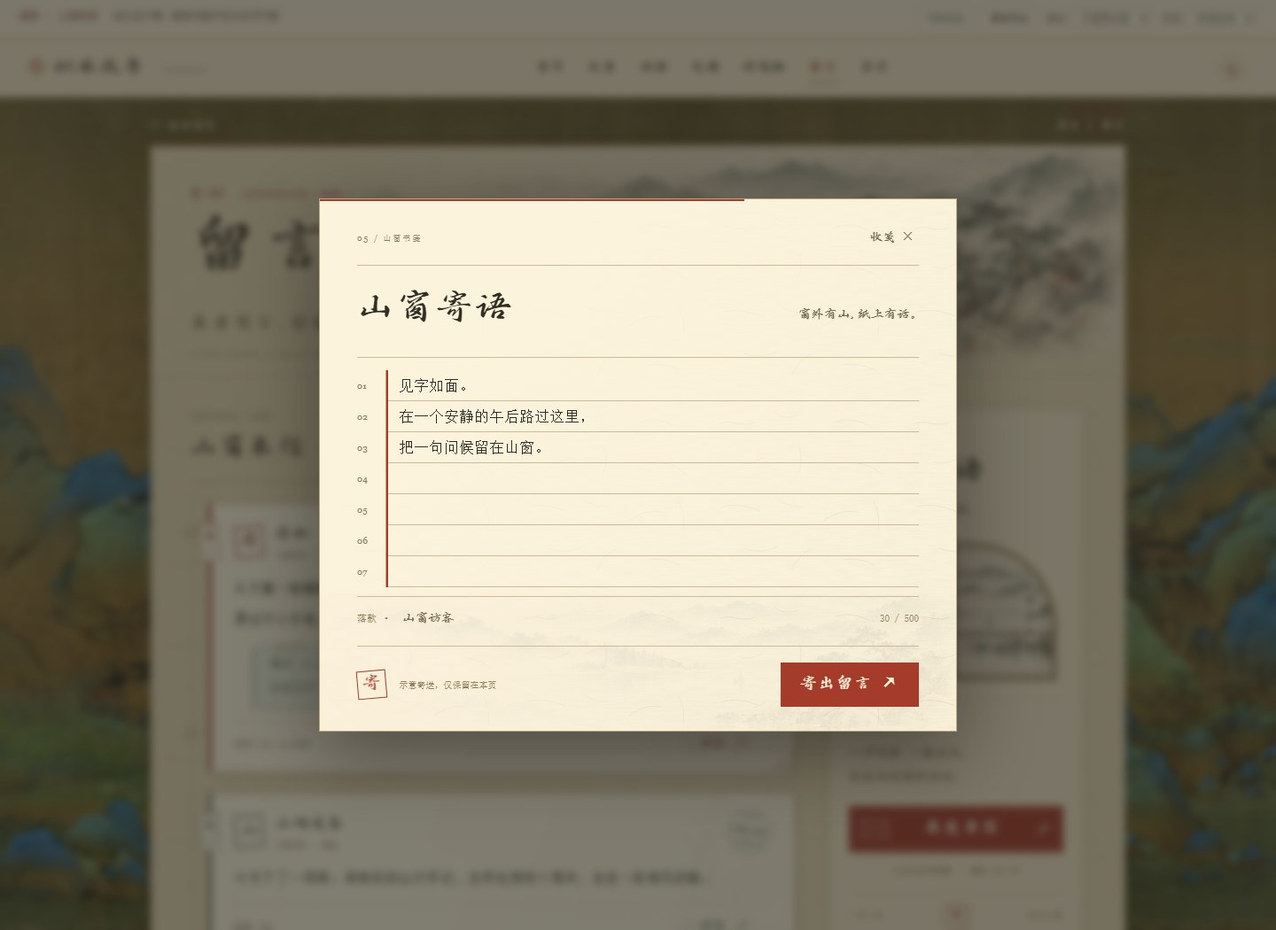
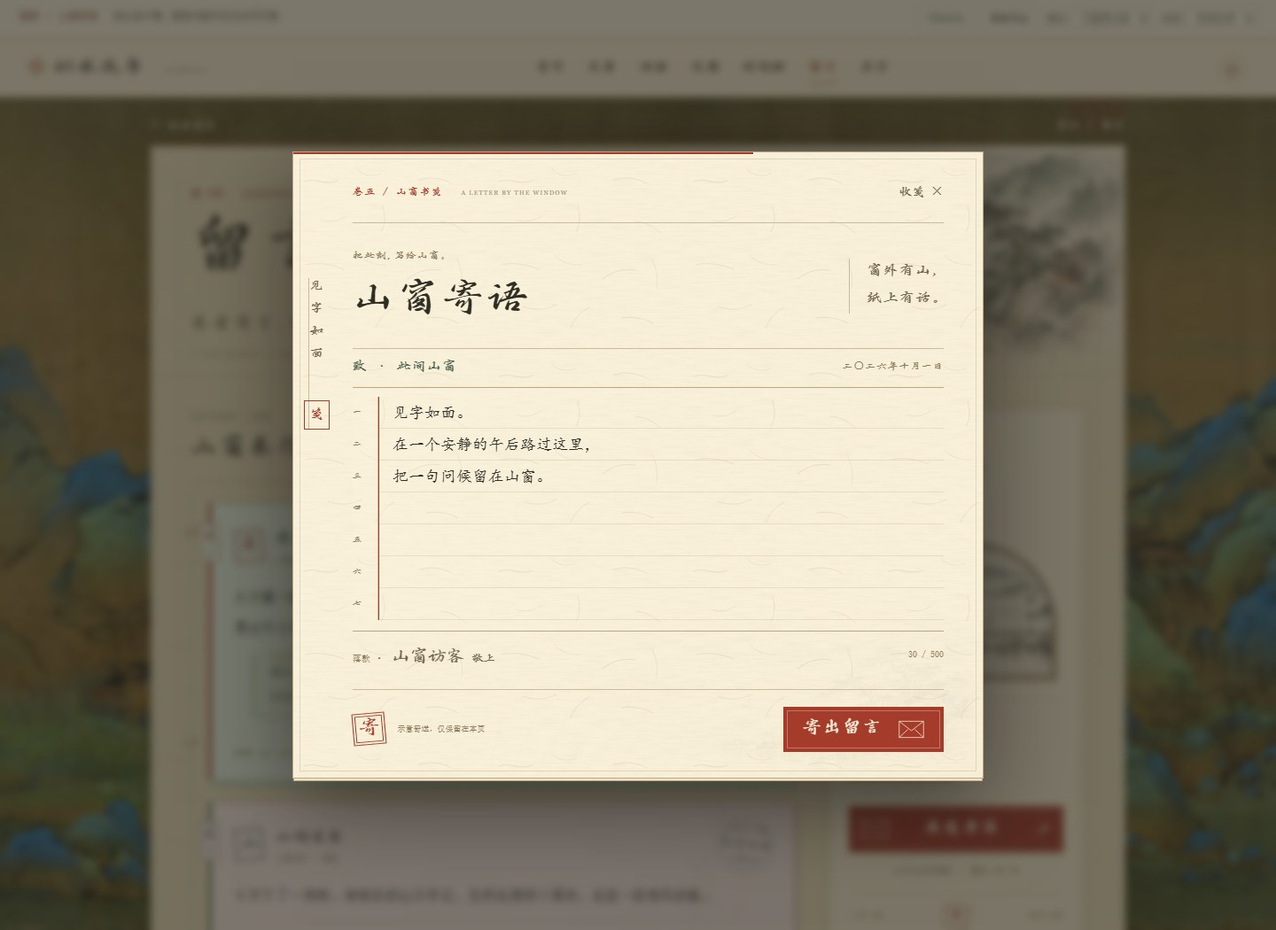
design(guestbook): randomize paper tones and refine letter composer

diff --git a/effect-preview/guestbook-window-letters-v2.js b/effect-preview/guestbook-window-letters-v2.js
@@ -10,11 +10,22 @@
     {id:6,name:'南风',mark:'风',date:'2026.08.21',text:'不赶路的时候，看看山，写写字，也很好。',replies:[]}
   ];
   const data = structuredClone(original);
+  const paperNames=['apricot','moss','moon','lotus','rose','oat'];
+  let paperBag=[];
+  function nextPaper() {
+    if(!paperBag.length){paperBag=[...paperNames];for(let i=paperBag.length-1;i>0;i--){const j=Math.floor(Math.random()*(i+1));[paperBag[i],paperBag[j]]=[paperBag[j],paperBag[i]];}}
+    return paperBag.pop();
+  }
+  data.forEach(item=>item.paper=nextPaper());
   let page = 1, nextId = 7, busy = false, returnFocus = null, timer = null, pendingDelete = null;
   const reduced = () => matchMedia('(prefers-reduced-motion:reduce)').matches;
   const escape = value => String(value).replace(/[&<>"']/g, c => ({'&':'&amp;','<':'&lt;','>':'&gt;','"':'&quot;',"'":'&#39;'}[c]));
   const bodyText = value => value.split('\n').map(line => `<p>${escape(line) || '<br>'}</p>`).join('');
   const pad = value => String(value).padStart(2,'0');
+  const digits='〇一二三四五六七八九';
+  function chineseNumber(value) {if(value<10)return digits[value];if(value<20)return '十'+(value%10?digits[value%10]:'');if(value<100)return digits[Math.floor(value/10)]+'十'+(value%10?digits[value%10]:'');return String(value).split('').map(n=>digits[Number(n)]).join('');}
+  function chineseDate(value) {const [year,month,day]=value.split('.').map(Number);const yearText=String(year).split('').map(n=>digits[Number(n)]).join('')+'年';const dayText=day>20&&day<30?'廿'+(day%10?digits[day%10]:''):chineseNumber(day);return {year:yearText,day:chineseNumber(month)+'月'+dayText,full:yearText+chineseNumber(month)+'月'+dayText+'日'};}
+  const today=new Date();$('composer-date').textContent=chineseDate(`${today.getFullYear()}.${pad(today.getMonth()+1)}.${pad(today.getDate())}`).full;
   function notify(text) { clearTimeout(timer);$('toast').textContent=text;$('toast').classList.add('visible');timer=setTimeout(()=>$('toast').classList.remove('visible'),3200); }
   function replyHTML(reply) { return `<div class="reply"><span class="reply-seal" aria-hidden="true">复</span><span class="reply-name">${escape(reply.name)}${reply.owner ? '<small>博主回信</small>' : '<small>访客回信</small>'}</span><p>${escape(reply.text).replace(/\n/g,'<br>')}</p></div>`; }
   function letterCraft(item, index) {
@@ -32,7 +43,7 @@
       stateBox.innerHTML=`<span class="state-symbol" aria-hidden="true">${symbol}</span><h3>${title}</h3><p>${copy}</p>${state==='error'?'<button type="button" id="retry-list">重新收信</button>':''}`;
       stateBox.toggleAttribute('data-loading',state==='loading');
     } else {
-      list.innerHTML=data.slice((page-1)*3,page*3).map((item,index)=>`<article class="letter crafted-letter${item.replies.length?' has-reply':''}" data-id="${item.id}" aria-label="${escape(item.name)}的来信">${letterCraft(item,index)}<header class="letter-head"><span class="avatar" aria-hidden="true">${escape(item.mark)}</span><span class="author">${escape(item.name)}<small class="author-tag">山窗来客 · 留笺</small></span><time class="letter-postmark" datetime="${item.date.replaceAll('.','-')}" aria-label="${item.date}"><span>${item.date.slice(0,4)}</span><b>${item.date.slice(5)}</b><i aria-hidden="true">山窗来信</i></time></header><div class="letter-body">${bodyText(item.text)}</div><div class="replies">${item.replies.map(replyHTML).join('')}</div><footer class="letter-foot"><span>来信 / ${pad((page-1)*3+index+1)}${item.replies.length?` · ${pad(item.replies.length)} 回信`:''}</span><div class="letter-actions">${!guest?`<button class="text-action reply-toggle" type="button" aria-expanded="false" aria-controls="reply-${item.id}"><span>回信</span><b aria-hidden="true">↗</b></button>`:''}${owner?'<button class="text-action delete-button" type="button">收起</button>':''}</div></footer><form class="reply-input" id="reply-${item.id}" hidden><label class="sr-only" for="reply-text-${item.id}">回复${escape(item.name)}</label><textarea id="reply-text-${item.id}" maxlength="500" placeholder="写一封简短的回信……" required></textarea><div><small>示意回信 · 最多500字</small><button type="submit">寄出回信</button></div></form></article>`).join('');
+      list.innerHTML=data.slice((page-1)*3,page*3).map((item,index)=>{const date=chineseDate(item.date);return `<article class="letter crafted-letter${item.replies.length?' has-reply':''}" data-paper="${item.paper}" data-id="${item.id}" aria-label="${escape(item.name)}的来信">${letterCraft(item,index)}<header class="letter-head"><span class="avatar" aria-hidden="true">${escape(item.mark)}</span><span class="author">${escape(item.name)}<small class="author-tag">山窗来客 · 留笺</small></span><time class="letter-postmark" datetime="${item.date.replaceAll('.','-')}" aria-label="${date.full}"><span>${date.year}</span><b>${date.day}</b><i aria-hidden="true">山窗来信</i></time></header><div class="letter-body">${bodyText(item.text)}</div><div class="replies">${item.replies.map(replyHTML).join('')}</div><footer class="letter-foot"><span>来信 / ${pad((page-1)*3+index+1)}${item.replies.length?` · ${pad(item.replies.length)} 回信`:''}</span><div class="letter-actions">${!guest?`<button class="text-action reply-toggle" type="button" aria-expanded="false" aria-controls="reply-${item.id}"><span>回信</span><b aria-hidden="true">↗</b></button>`:''}${owner?'<button class="text-action delete-button" type="button">收起</button>':''}</div></footer><form class="reply-input" id="reply-${item.id}" hidden><label class="sr-only" for="reply-text-${item.id}">回复${escape(item.name)}</label><textarea id="reply-text-${item.id}" maxlength="500" placeholder="写一封简短的回信……" required></textarea><div><small>示意回信 · 最多500字</small><button type="submit">寄出回信</button></div></form></article>`;}).join('');
     }
     document.querySelector('.pagination').hidden=list.hidden||pages<2;
     $('page-caption').textContent=`第 ${pad(page)} / ${pad(pages)} 页`;
@@ -49,13 +60,13 @@
     document.querySelectorAll('.letter').forEach(letter=>observer.observe(letter));
   }
   function openComposer(trigger) {returnFocus=trigger;$('form-error').hidden=true;$('composer').showModal();$('message').focus();resizeMessage();}
-  function resizeMessage() {const message=$('message');message.style.height='auto';message.style.height=Math.max(245,message.scrollHeight)+'px';const lines=Math.ceil(parseInt(message.style.height)/35);document.querySelector('.line-numbers').innerHTML=Array.from({length:lines},(_,i)=>pad(i+1)).join('<br>');$('char-count').textContent=`${message.value.length} / 500`;$('send-button').disabled=busy||!message.value.trim();}
+  function resizeMessage(followTail=false) {const message=$('message'),line=parseFloat(getComputedStyle(message).lineHeight)||36;message.style.height='auto';message.style.height=Math.max(line*7,message.scrollHeight)+'px';const lines=Math.ceil(parseInt(message.style.height)/line);document.querySelector('.line-numbers').innerHTML=Array.from({length:lines},(_,i)=>chineseNumber(i+1)).join('<br>');$('char-count').textContent=`${message.value.length} / 500`;$('send-button').disabled=busy||!message.value.trim();if(followTail&&message.selectionStart===message.value.length){const paper=document.querySelector('.manuscript');paper.scrollTop=paper.scrollHeight;}}
   $('write-button').addEventListener('click',event=>openComposer(event.currentTarget));
   $('close-composer').addEventListener('click',()=>$('composer').close());
   $('composer').addEventListener('cancel',event=>{if(busy)event.preventDefault()});
   $('composer').addEventListener('close',()=>{returnFocus?.focus()});
   $('composer').addEventListener('click',event=>{const r=$('composer').getBoundingClientRect();if(!busy&&event.target===$('composer')&&(event.clientX<r.left||event.clientX>r.right||event.clientY<r.top||event.clientY>r.bottom))$('composer').close()});
-  $('message').addEventListener('input',resizeMessage);
+  $('message').addEventListener('input',()=>resizeMessage(true));
   [$('composer'),$('delete-dialog')].forEach(dialog=>dialog.addEventListener('keydown',event=>{
     if(event.key!=='Tab')return;
     const stops=[...dialog.querySelectorAll('button:not(:disabled),textarea:not(:disabled),a[href],select:not(:disabled),[tabindex="0"]')].filter(element=>element.getClientRects().length);
@@ -65,11 +76,11 @@
     else if(!event.shiftKey&&document.activeElement===last){event.preventDefault();first.focus();}
   }));
   $('composer-form').addEventListener('submit',event=>{
-    event.preventDefault();if(busy||!$('message').value.trim())return;busy=true;$('message').readOnly=true;$('form-error').hidden=true;$('composer').setAttribute('aria-busy','true');$('send-button').textContent='寄送中…';$('send-button').disabled=true;$('close-composer').disabled=true;
-    setTimeout(()=>{busy=false;$('message').readOnly=false;$('composer').removeAttribute('aria-busy');$('close-composer').disabled=false;$('send-button').textContent='寄出留言 ↗';
+    event.preventDefault();if(busy||!$('message').value.trim())return;busy=true;$('message').readOnly=true;$('form-error').hidden=true;$('composer').setAttribute('aria-busy','true');$('send-label').textContent='寄送中…';$('send-button').disabled=true;$('close-composer').disabled=true;
+    setTimeout(()=>{busy=false;$('message').readOnly=false;$('composer').removeAttribute('aria-busy');$('close-composer').disabled=false;$('send-label').textContent='寄出留言';
       if($('demo-state').value==='send-error') {$('form-error').textContent='示意寄送失败，内容已保留。切换到“来信往来”后可重试。';$('form-error').hidden=false;resizeMessage();$('message').focus();return;}
       const now=new Date();const date=`${now.getFullYear()}.${pad(now.getMonth()+1)}.${pad(now.getDate())}`;
-      data.unshift({id:nextId++,name:$('signature-name').textContent,mark:'客',date,text:$('message').value.trim(),replies:[]});$('message').value='';page=1;$('demo-state').value='normal';render();$('composer').close();resizeMessage();notify('信已收好 · 本页演示留言');
+      data.unshift({id:nextId++,name:$('signature-name').textContent,mark:'客',date,text:$('message').value.trim(),replies:[],paper:nextPaper()});$('message').value='';page=1;$('demo-state').value='normal';render();$('composer').close();resizeMessage();notify('信已收好 · 本页演示留言');
     },650);
   });
   $('letter-list').addEventListener('click',event=>{

diff --git a/effect-preview/guestbook-window-letters-v2.css b/effect-preview/guestbook-window-letters-v2.css
@@ -209,3 +209,108 @@ html.motion-ready .hero-landscape{animation:landscape-reveal 1.5s var(--ease) bo
   .crafted-letter:hover,.crafted-letter:focus-within {transform:none;}
   .crafted-letter .avatar::after {display:none;}
 }
+
+/* 淡彩笺纸：随机选择纸色，同一封信在翻页和切换日夜时保留配色。 */
+.crafted-letter[data-paper=apricot] {--letter-paper:#fff0d5;--letter-back:#e9d0a6;--letter-border:#b59868;}
+.crafted-letter[data-paper=moss] {--letter-paper:#e5edda;--letter-back:#cbd7bd;--letter-border:#91a080;}
+.crafted-letter[data-paper=moon] {--letter-paper:#e5eef0;--letter-back:#c9d9dc;--letter-border:#8da3aa;}
+.crafted-letter[data-paper=lotus] {--letter-paper:#eee5f0;--letter-back:#d7c9dc;--letter-border:#a491ad;}
+.crafted-letter[data-paper=rose] {--letter-paper:#f5e2db;--letter-back:#dec3b8;--letter-border:#b58f7f;}
+.crafted-letter[data-paper=oat] {--letter-paper:#f5ecd9;--letter-back:#ded0b1;--letter-border:#b2a07a;}
+.crafted-letter[data-paper] {--fold-shadow:color-mix(in srgb,var(--letter-back) 72%,#6e5d43);--fold-paper:var(--letter-back);--fold-light:var(--letter-paper);--reply-paper:color-mix(in srgb,var(--letter-paper) 76%,#c6d2b5);}
+:root[data-theme=dark] .crafted-letter[data-paper=apricot] {--letter-paper:#574632;--letter-back:#3c3022;--letter-border:#a28861;}
+:root[data-theme=dark] .crafted-letter[data-paper=moss] {--letter-paper:#414b36;--letter-back:#2c3424;--letter-border:#81936e;}
+:root[data-theme=dark] .crafted-letter[data-paper=moon] {--letter-paper:#3c4b50;--letter-back:#29363a;--letter-border:#78969e;}
+:root[data-theme=dark] .crafted-letter[data-paper=lotus] {--letter-paper:#4d4051;--letter-back:#352b39;--letter-border:#97819f;}
+:root[data-theme=dark] .crafted-letter[data-paper=rose] {--letter-paper:#554039;--letter-back:#392b25;--letter-border:#a78778;}
+:root[data-theme=dark] .crafted-letter[data-paper=oat] {--letter-paper:#504833;--letter-back:#362f22;--letter-border:#9c916f;}
+:root[data-theme=dark] .crafted-letter[data-paper] {--reply-paper:color-mix(in srgb,var(--letter-paper) 80%,#33472d);}
+.crafted-letter .letter-postmark {width:62px;height:62px;gap:3px;}
+.letter-postmark span {font:9px/1.2 var(--brush);letter-spacing:.02em;}
+.letter-postmark b {font:14px/1.2 var(--brush);letter-spacing:0;}
+.letter-postmark i {font:8px/1.2 var(--brush);}
+
+/* 山窗书笺：题签、收信处、正文、敬上落款、寄封。 */
+body:has(#composer[open]) {overflow:hidden;}
+#composer {
+  width:min(780px,calc(100% - 28px));
+  background:linear-gradient(120deg,#fff7de29,transparent 40%),var(--bright) url('../public/bg/guestbook-paper-fibers.svg');
+  box-shadow:0 4px 0 -2px var(--muted-paper),0 4px 0 -1px var(--line),0 30px 90px #100b0785;
+}
+#composer::after {position:absolute;inset:7px;content:'';border:1px solid var(--fine);opacity:.5;pointer-events:none;}
+#composer-form {padding:28px 44px 29px 67px;isolation:isolate;}
+#composer-form::before {height:210px;opacity:.085;z-index:-1;mask-image:linear-gradient(90deg,transparent 25%,#000),linear-gradient(0deg,#000,transparent);mask-composite:intersect;}
+.composer-spine {position:absolute;left:17px;top:142px;writing-mode:vertical-rl;font:15px/1 var(--brush);letter-spacing:.35em;color:var(--soft);border-left:1px solid var(--fine);padding:0 9px 0 0;}
+.composer-spine i {font:16px/1 var(--brush);letter-spacing:0;border:1px solid var(--seal);color:var(--seal);padding:5px 3px;margin-top:25px;transform:rotate(-4deg);}
+#composer .dialog-head {padding-bottom:16px;}
+#composer .dialog-head .eyebrow {font:12px var(--brush);letter-spacing:.13em;color:var(--seal);}
+.dialog-head .eyebrow small {font:7px Georgia,serif;letter-spacing:.17em;color:var(--faint);margin-left:14px;}
+#composer .dialog-head button {padding:7px 0 7px 14px;}
+#composer .dialog-title {align-items:center;margin:23px 0 22px;}
+.composer-kicker {font:12px var(--brush);letter-spacing:.1em;color:var(--faint);}
+#composer .dialog-title h2 {font-size:47px;letter-spacing:.1em;margin-top:9px;}
+#composer .dialog-title p {font:17px/1.8 var(--brush);letter-spacing:.1em;border-left:1px solid var(--fine);padding-left:19px;color:var(--soft);}
+.composer-to {display:flex;justify-content:space-between;align-items:center;gap:15px;padding:10px 0 12px;border-top:1px solid var(--fine);}
+.composer-to span:first-child {font:16px var(--brush);letter-spacing:.09em;color:var(--pine);}
+#composer-date {font:12px var(--brush);letter-spacing:.08em;color:var(--faint);}
+#composer .manuscript {
+  border-top:1px solid var(--line);border-bottom:1px solid var(--line);
+  padding:10px 0 12px;margin-bottom:16px;
+  background:linear-gradient(90deg,#fff8e321,transparent 65%);
+  max-height:38dvh;scrollbar-width:thin;scrollbar-color:var(--line) transparent;
+}
+#composer .line-numbers {font:10px/36px var(--brush);width:29px;color:var(--faint);border-right-color:var(--fine);}
+#message {
+  min-height:252px;padding-left:16px;
+  font:18px/36px 'KaiTi','STKaiti',var(--song);
+  background:repeating-linear-gradient(0deg,var(--letter-rule) 0 1px,transparent 1px 36px);
+  background-size:100% 36px;caret-color:var(--seal);
+}
+#message::placeholder {font:18px/36px var(--brush);color:var(--faint);opacity:.7;}
+#message:focus-visible {box-shadow:inset 1px 0 0 var(--seal);}
+#composer .signature {align-items:flex-start;color:var(--faint);font-size:10px;}
+.signature>span:first-child {display:flex;align-items:baseline;gap:9px;}
+.signature b {font:21px var(--brush);margin-left:0;}
+.signature i {font:13px var(--brush);font-style:normal;color:var(--soft);}
+#composer .dialog-foot {padding-top:19px;margin-top:21px;gap:13px;}
+#composer .mini-seal {position:relative;padding:5px 6px;font:24px/1 var(--brush);box-shadow:inset 0 0 0 2px var(--bright),inset 0 0 0 3px var(--seal);}
+#composer .dialog-foot small {font-size:9px;}
+#composer .dialog-foot button {
+  display:flex;align-items:center;justify-content:center;gap:18px;min-height:51px;min-width:181px;
+  padding:10px 20px;font:21px var(--brush);box-shadow:inset 0 0 0 3px var(--seal),inset 0 0 0 4px #fff3cf55;
+  transition:transform .4s var(--ease),box-shadow .4s;
+}
+#send-button svg {width:29px;height:21px;fill:none;stroke:currentColor;stroke-width:1;transition:transform .5s var(--ease);}
+#send-button:hover:not(:disabled) {transform:translateY(-2px);box-shadow:inset 0 0 0 3px var(--seal),inset 0 0 0 4px #fff3cf55,0 7px 10px -7px var(--shadow);}
+#send-button:hover:not(:disabled) svg {transform:translate(3px,-2px) rotate(-5deg);}
+#composer[aria-busy=true] .mini-seal {animation:seal-on-letter .55s var(--ease) both;}
+#composer #form-error {background:var(--muted-paper);border-left:2px solid var(--seal);padding:9px 12px;font-size:11px;margin-top:13px;}
+@media(max-width:480px) {
+  .crafted-letter .letter-postmark {width:54px;height:54px;gap:2px;}
+  .letter-postmark span {font-size:8px;}
+  .letter-postmark b {font-size:12px;}
+  .letter-postmark i {font-size:7px;}
+  #composer {width:calc(100% - 16px);max-height:calc(100dvh - 20px);}
+  #composer-form {padding:22px 23px 23px 27px;}
+  .composer-spine {display:none;}
+  #composer .dialog-head .eyebrow {font-size:11px;letter-spacing:.07em;}
+  .dialog-head .eyebrow small {display:none;}
+  #composer .dialog-title {display:flex;margin:19px 0 18px;gap:12px;}
+  .composer-kicker {font-size:10px;}
+  #composer .dialog-title h2 {font-size:35px;letter-spacing:.08em;}
+  #composer .dialog-title p {font-size:12px;line-height:1.7;padding-left:10px;flex:none;}
+  .composer-to {gap:7px;align-items:center;padding:10px 0;}
+  .composer-to span:first-child {font-size:13px;letter-spacing:.03em;}
+  #composer-date {font-size:9px;letter-spacing:.02em;}
+  #composer .manuscript {max-height:35dvh;padding-top:7px;margin-bottom:14px;}
+  #composer .line-numbers {width:24px;}
+  #message {font-size:17px;padding-left:11px;}
+  #message::placeholder {font-size:16px;}
+  .signature b {font-size:18px;}
+  .signature i {font-size:11px;}
+  .signature>span:first-child {gap:5px;}
+  #composer .dialog-foot {margin-top:17px;padding-top:15px;gap:12px;}
+  #composer .dialog-foot button {width:100%;margin:2px 0 0;font-size:20px;min-height:48px;}
+  #composer .mini-seal {font-size:22px;}
+}
+@media(prefers-reduced-motion:reduce) {#send-button:hover:not(:disabled),#send-button:hover:not(:disabled) svg {transform:none;}}

diff --git a/effect-preview/guestbook-window-letters-v2.html b/effect-preview/guestbook-window-letters-v2.html
@@ -26,7 +26,7 @@
   <div class="correspondence">
     <section class="letters" aria-labelledby="letters-title">
       <header class="section-head"><div><span class="eyebrow">LETTERS / 往来</span><h2 id="letters-title" tabindex="-1">山窗来信</h2></div><p>共 <b id="total-count">06</b> 封<small>字短情长，皆有回响。</small></p></header>
-      <div class="book-body"><div class="binding" aria-hidden="true"><i></i><i></i><i></i><i></i></div><div id="letter-list"><article class="letter"><header class="letter-head"><span class="avatar" aria-hidden="true">清</span><span class="author">清和</span><time datetime="2026-09-29">2026.09.29</time></header><div class="letter-body"><p>从文章一路翻到这里，像走进了一间安静的书房。</p><p>愿这方小天地，长久留住你的热爱。</p></div><div class="reply"><span class="reply-name">博主 <small>博主回信</small></span><p>谢谢你停下来读这些文字。山窗常开，欢迎再来。</p></div></article><article class="letter"><header class="letter-head"><span class="avatar" aria-hidden="true">山</span><span class="author">山间过客</span><time datetime="2026-09-24">2026.09.24</time></header><div class="letter-body"><p>今天下了一场雨。读到你的山行手记，忽然也想找个周末，去走一段有风的路。</p></div></article><article class="letter"><header class="letter-head"><span class="avatar" aria-hidden="true">雨</span><span class="author">听雨</span><time datetime="2026-09-18">2026.09.18</time></header><div class="letter-body"><p>见字如面。</p><p>把一句问候留在这里，祝你秋日安好。</p></div></article></div><div id="list-state" class="list-state" role="status" hidden></div></div>
+      <div class="book-body"><div class="binding" aria-hidden="true"><i></i><i></i><i></i><i></i></div><div id="letter-list"><article class="letter"><header class="letter-head"><span class="avatar" aria-hidden="true">清</span><span class="author">清和</span><time datetime="2026-09-29">二〇二六年九月廿九日</time></header><div class="letter-body"><p>从文章一路翻到这里，像走进了一间安静的书房。</p><p>愿这方小天地，长久留住你的热爱。</p></div><div class="reply"><span class="reply-name">博主 <small>博主回信</small></span><p>谢谢你停下来读这些文字。山窗常开，欢迎再来。</p></div></article><article class="letter"><header class="letter-head"><span class="avatar" aria-hidden="true">山</span><span class="author">山间过客</span><time datetime="2026-09-24">二〇二六年九月廿四日</time></header><div class="letter-body"><p>今天下了一场雨。读到你的山行手记，忽然也想找个周末，去走一段有风的路。</p></div></article><article class="letter"><header class="letter-head"><span class="avatar" aria-hidden="true">雨</span><span class="author">听雨</span><time datetime="2026-09-18">二〇二六年九月十八日</time></header><div class="letter-body"><p>见字如面。</p><p>把一句问候留在这里，祝你秋日安好。</p></div></article></div><div id="list-state" class="list-state" role="status" hidden></div></div>
       <nav class="pagination" aria-label="留言分页"><span id="page-caption">第 01 / 02 页</span><div><button id="prev-page" type="button" aria-label="上一页留言">←</button><span id="page-numbers"><button class="page-number" data-page="1" type="button" aria-label="第1页留言" aria-current="page">01</button><button class="page-number" data-page="2" type="button" aria-label="第2页留言">02</button></span><button id="next-page" type="button" aria-label="下一页留言">→</button></div></nav>
       <noscript><style>.pagination,#write-button,.preview-tools,.nav-theme,.nav-menu{display:none!important}</style><p class="no-js-note">当前为静态示意。开启 JavaScript 可体验书写与分页；<a href="http://127.0.0.1:3015/guestbook">前往正式留言页 ↗</a></p></noscript>
     </section>
@@ -44,11 +44,13 @@
 <footer class="site-footer">山水有尽 · 来信无涯<p>本页为待确认设计稿。正式留言将沿用现有登录、回复、分页与权限。</p></footer>
 <dialog id="composer" aria-labelledby="composer-title" aria-describedby="composer-description">
   <form id="composer-form">
-    <header class="dialog-head"><span class="eyebrow">05 / 山窗书笺</span><button id="close-composer" type="button" aria-label="收笺，关闭书写面板">收笺 ×</button></header>
-    <div class="dialog-title"><h2 id="composer-title">山窗寄语</h2><p id="composer-description">窗外有山，纸上有话。</p></div>
-    <div class="manuscript"><div class="line-numbers" aria-hidden="true">01<br>02<br>03<br>04<br>05<br>06<br>07</div><label class="sr-only" for="message">留言内容</label><textarea id="message" placeholder="写下此刻想说的话……" maxlength="500" required></textarea></div>
-    <div class="signature"><span>落款 · <b id="signature-name">山窗访客</b></span><span id="char-count">0 / 500</span></div>
-    <p id="form-error" role="alert" hidden></p><footer class="dialog-foot"><span class="mini-seal" aria-hidden="true">寄</span><small>示意寄送，仅保留在本页</small><button id="send-button" type="submit" disabled>寄出留言 <span aria-hidden="true">↗</span></button></footer>
+    <span class="composer-spine" aria-hidden="true">见字如面 <i>笺</i></span>
+    <header class="dialog-head"><span class="eyebrow">卷五 / 山窗书笺 <small>A LETTER BY THE WINDOW</small></span><button id="close-composer" type="button" aria-label="收笺，关闭书写面板">收笺 ×</button></header>
+    <div class="dialog-title"><div><span class="composer-kicker">把此刻，写给山窗。</span><h2 id="composer-title">山窗寄语</h2></div><p id="composer-description">窗外有山，<br>纸上有话。</p></div>
+    <div class="composer-to"><span>致 · 此间山窗</span><span id="composer-date"></span></div>
+    <div class="manuscript"><div class="line-numbers" aria-hidden="true">一<br>二<br>三<br>四<br>五<br>六<br>七</div><label class="sr-only" for="message">留言内容</label><textarea id="message" placeholder="见字如面，&#10;写下此刻想说的话……" maxlength="500" required></textarea></div>
+    <div class="signature"><span>落款 · <b id="signature-name">山窗访客</b><i>敬上</i></span><span id="char-count">0 / 500</span></div>
+    <p id="form-error" role="alert" hidden></p><footer class="dialog-foot"><span class="mini-seal" aria-hidden="true">寄</span><small>示意寄送，仅保留在本页</small><button id="send-button" type="submit" disabled><span id="send-label">寄出留言</span><svg viewBox="0 0 38 26" aria-hidden="true"><path d="M1 1H37V25H1Z M1 1L19 15L37 1 M1 25L14 13 M37 25L24 13"/></svg></button></footer>
   </form>
 </dialog>
 <dialog id="delete-dialog" aria-labelledby="delete-title"><form method="dialog"><p class="eyebrow">收笺 / 移除演示留言</p><h2 id="delete-title">收起这封来信？</h2><p>仅移除本页示例，重新加载可恢复。</p><div><button value="cancel">保留</button><button id="confirm-delete" value="confirm">收起留言</button></div></form></dialog>

diff --git a/effect-preview/guestbook-window-letters-v2.md b/effect-preview/guestbook-window-letters-v2.md
@@ -10,12 +10,12 @@
 | --- | --- |
 | 山水题头 | 继续使用站内水墨山景与“来者有言，皆收于此”；保留卷五标识、书法标题与朱印，加右侧题跋和克制的英文落款 |
 | 纸面 | 桌面最大 1100px，左侧阅读区与右侧 292px 书写引导区；纸面、信笺与页边采用三个明度层次，内容结束即收束页底 |
-| 来信 | 左侧装订线与穿线环串起有背纸的米白信笺；侧签、个人方印、日期圆戳、淡竹纹与右下曲面折角构成装帧，正文自然撑高 |
+| 来信 | 左侧装订线与穿线环串起随机淡彩信笺；侧签、个人方印、中文日期圆戳、淡竹纹与右下曲面折角构成装帧，正文自然撑高 |
 | 回信 | 松色小纸条附在原笺内，用纤维胶贴、复字小印和轻微倾角区分；有回信的原笺用朱色侧线与印记，其余沿用松色 |
 | 山窗 | 保留“山窗寄语 / 窗外有山，纸上有话”；拱形窗框、双线木边、窗棂与原站水墨远山组成阅读停顿处 |
 | 书写入口 | 朱色双细框按钮与可翻起的信封线稿；“展笺书写”打开信纸弹层 |
 | 分页 | 置于来信区结尾，以小型朱色页签表达当前页，翻页后焦点回到来信标题 |
-| 书写弹层 | 独立信纸、细朱线、行号和横笺格线，落款与字数位于正文下；最多 500 字，长内容在正文区内滚动 |
+| 书写弹层 | 双层纸边、纵向题签、收信处与中文日期；正文采用 36px 格线和中文行次，底部为“敬上”落款、寄印与封信按钮，最多 500 字 |
 
 760px 以下变为单列，山窗与书写入口置于来信前；390/375/360px 下进一步缩小窗景、保持入口全宽，信笺仍按内容高度排版。夜色采用深褐底纸、较浅信笺、暖墨文字与淡朱色操作。
 
@@ -33,11 +33,19 @@
 
 ## 卡片装帧修订
 
-依据“卡片太普通”、此前要求“卡片与背景要有区分”“增加悬停特效”和“不要过长”，本轮只强化来信纸页与回信细节。信笺正面、背纸和整页底纸使用独立颜色；前纸为 `#fff6e1`，背纸为 `#e7dbc0`，页底为 `#e8d8b5`。夜色对应区分为 `#564934`、`#3f3528`、`#332d23`。淡竹纹只作低浓度背景，不压住正文。
+依据“卡片太普通”、此前要求“卡片与背景要有区分”“增加悬停特效”和“不要过长”，来信正面、背纸与底纸保持独立层次。淡竹纹只作低浓度背景，不压住正文。本稿再按新要求加入随机纸色、中文日期与书写面板精修。
 
 来信保留同一设计骨架，通过真实的回信有无决定朱色/松色标识；回信是独立附笺，避免原留言与回复混成一整块。SVG 折角具有曲面路径、渐变与折痕，每封使用独立渐变 ID。书写弹层、双栏与题头保持既有构图。
 
-1440px 下三张示例纸页实测约 302 / 180 / 216px，高度随正文与回信变化；悬停不增加高度。装帧动画延续“展笺 → 显字 → 印记与附笺显出”的一次入场节奏。减少动态效果时停用倾斜、抬升和印记扩散。
+1440px 下三张示例纸页实测约 312 / 190 / 226px，高度随正文与回信变化；悬停不增加高度。装帧动画延续“展笺 → 显字 → 印记与附笺显出”的一次入场节奏。减少动态效果时停用倾斜、抬升和印记扩散。
+
+## 随机纸色与中文落款
+
+使用蜜杏、豆青、月白、藕荷、浅绯、麦纸六组淡彩。每次打开页面先随机洗牌，依次为留言分配；一组六封内不重复。配色保存在每封示例信的数据上，因此翻页、回复、切换日夜和重播不会改变已分配的颜色，新留言得到下一张随机纸色。夜色使用对应的深色纸面，背纸、折角与回笺同步协调。
+
+日期仍使用原有公历日期，显示为“二〇二六年 / 九月廿九”这样的中文书法落款。辅助技术读到完整中文年月日，`datetime` 属性保留标准日期格式。无脚本静态来信也显示中文日期。
+
+书写面板按“书笺题头 → 山窗寄语 → 收信处与日期 → 格线正文 → 敬上落款 → 寄封”排布。新增双层细框、纵向“见字如面”题签与轻淡山水底衬。正文、中文行次统一使用 36px 行高；连续在末尾输入时，书写区跟随到末行，编辑中间内容时保留滚动位置。弹层打开时锁住背景滚动，关闭后恢复；失败保留正文，寄送按钮的信封图形在重试后仍保留。
 
 ## 演示范围
 
@@ -56,6 +64,7 @@
 - 禁用 JavaScript 时仍显示三封静态来信与回信，隐藏不可用演示入口并提供正式页面链接。
 - 浏览器未捕获到页面脚本异常或资源失败。四张交付截图均在有限动画完成后保存。
 - 本轮复测通过：三个独立 SVG 折角、日期圆戳与前后纸面色差；指针倾斜和移出复位、折角展开、悬停高度不变、键盘反馈及减少动态效果均已检查。新增卡片悬停截图。
+- 随机纸色检查通过：六封示例配色唯一，翻页与日夜切换保持色系，刷新重新随机；中文日期正文与可访问名称均没有阿拉伯数字。书写行高一致，390×844 和 360×640 下寄出按钮可访问且没有横向溢出。
 - `npx tsc --noEmit`、`npx next build` 通过。`npx vitest run` 的 67 个文件、340 个断言通过，但有 5 个既有 `DailyQuote.tsx:105` 的 `echo.animate is not a function` 未处理异常，命令退出 1；不将全量测试标记为通过。
 
 ## 截图
